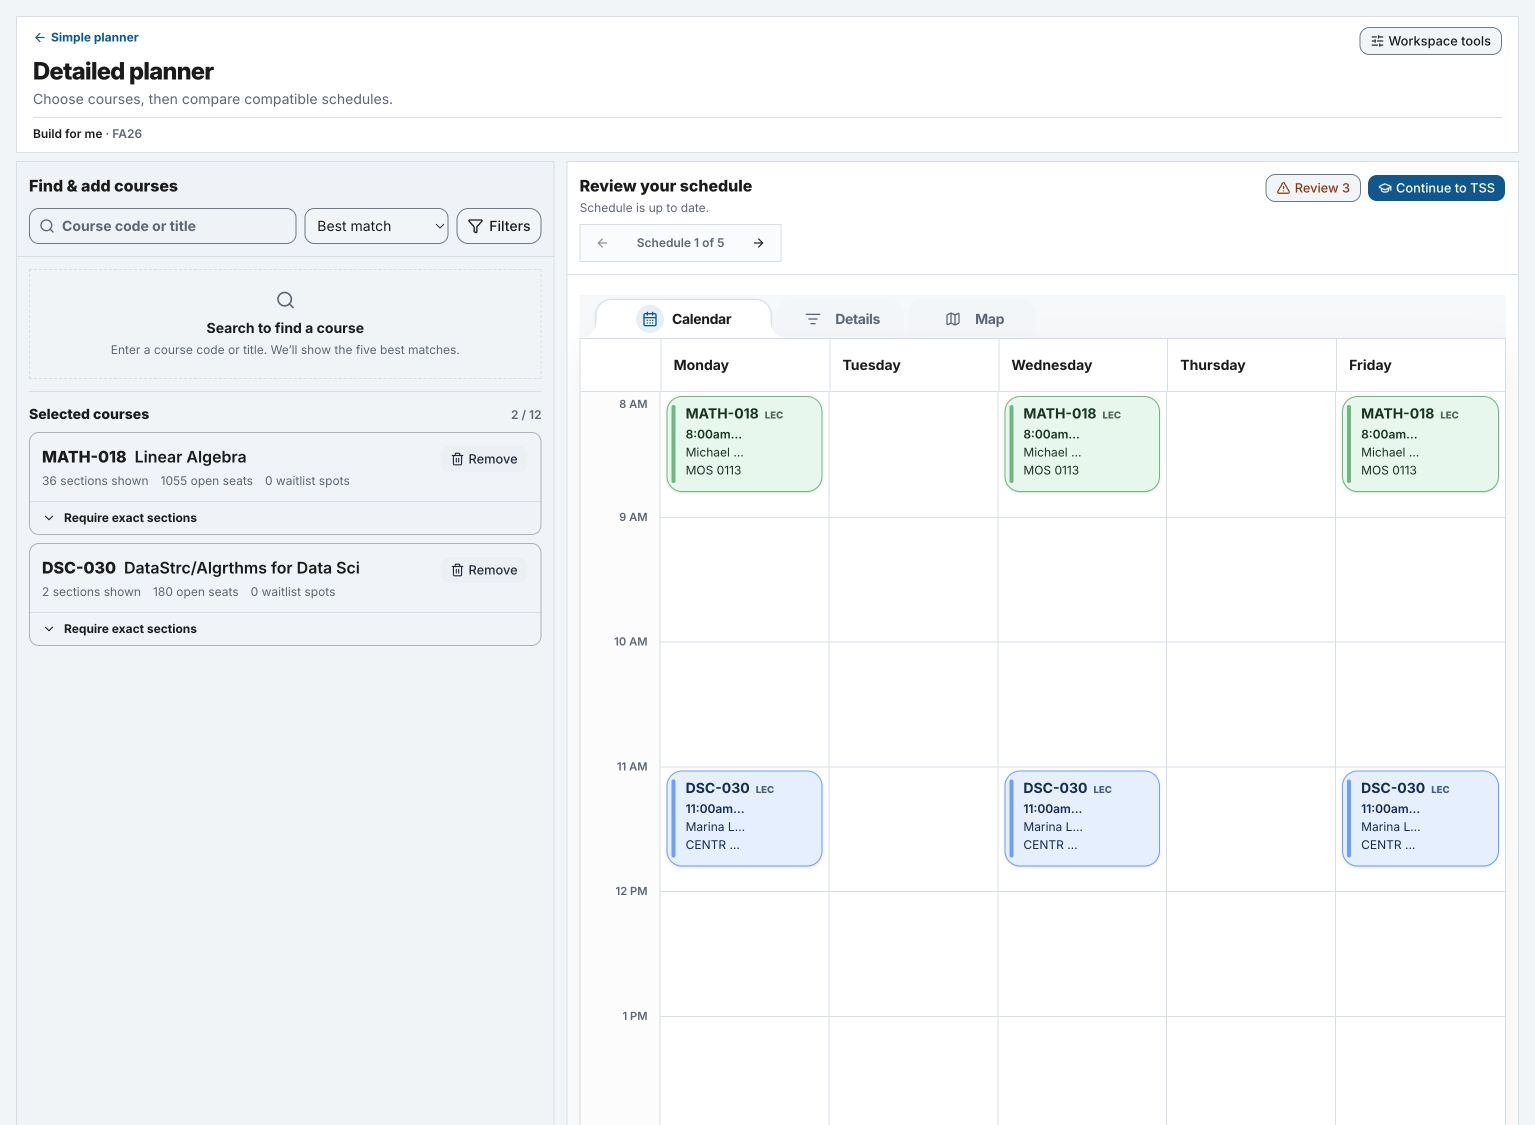
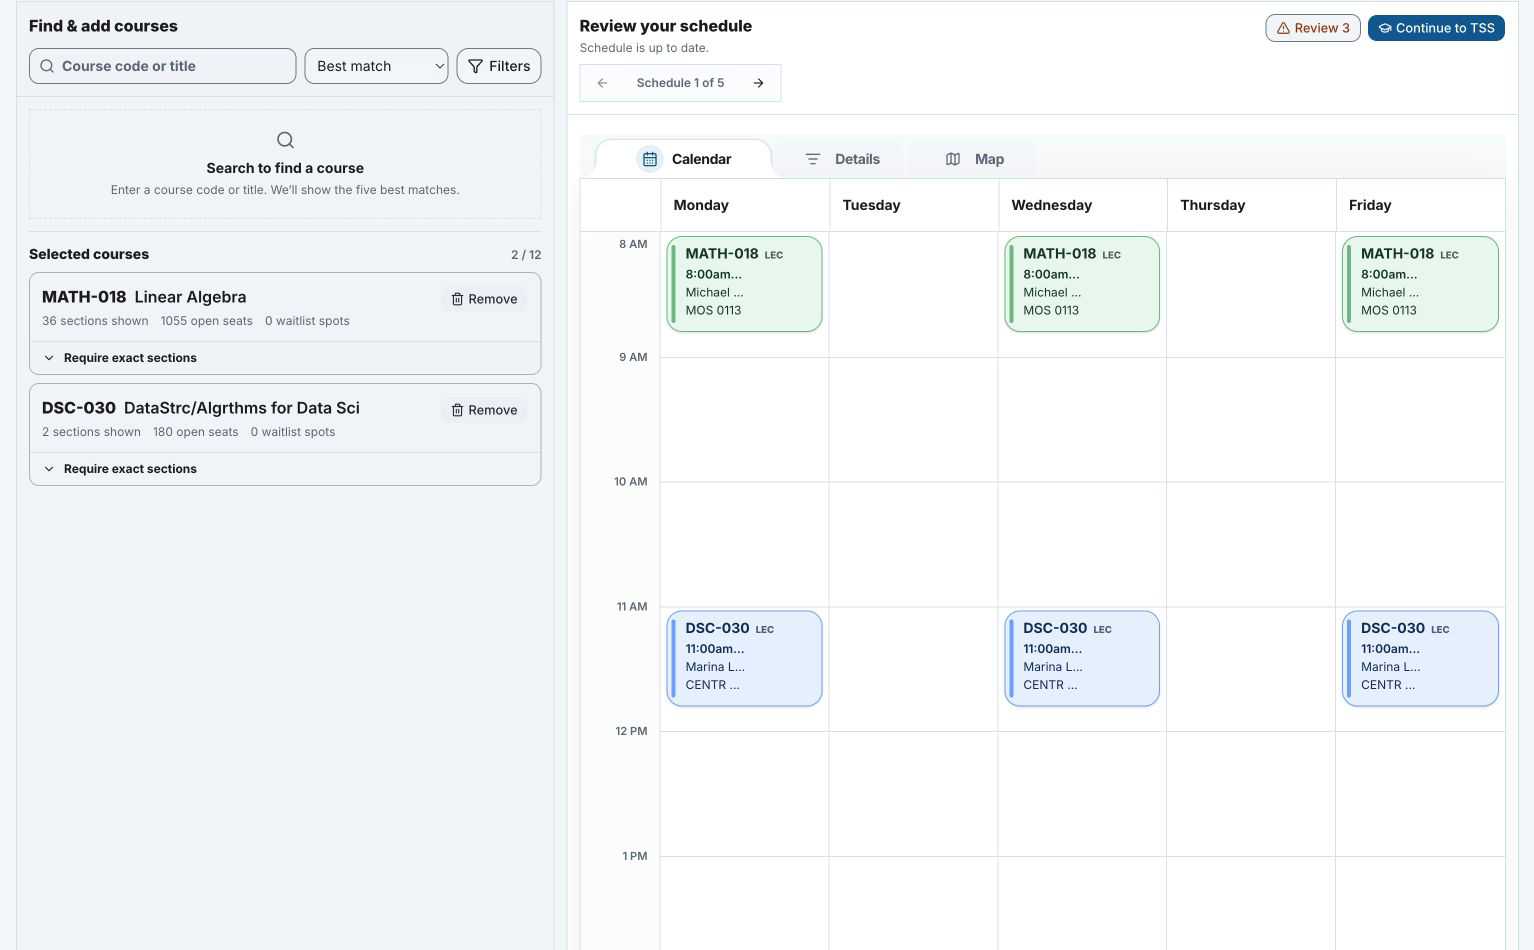
Update planner mode terminology and screenshots

diff --git a/index.html b/index.html
@@ -31,7 +31,7 @@
 
     <link href="https://cdn.ucsd.edu/cms/decorator-5/styles/bootstrap.min.css" rel="stylesheet">
     <link href="https://cdn.ucsd.edu/cms/decorator-5/styles/base.min.css" rel="stylesheet">
-    <link href="assets/css/site.css?v=14" rel="stylesheet">
+    <link href="assets/css/site.css?v=15" rel="stylesheet">
   </head>
 
   <body>
@@ -49,10 +49,10 @@
       </button>
       <ul class="nav navmenu-nav">
         <li class="active"><a href="#overview">Overview</a></li>
-        <li><a href="#build">Choose a method</a></li>
+        <li><a href="#build">Choose a mode</a></li>
         <li><a href="#preferences">Find courses</a></li>
-        <li><a href="#compare">Build for me</a></li>
-        <li><a href="#swap">Plan manually</a></li>
+        <li><a href="#compare">Auto planning</a></li>
+        <li><a href="#swap">Manual planning</a></li>
         <li><a href="#share">Continue to TSS</a></li>
         <li><a href="#release-notes">Release notes</a></li>
         <li><a href="#faq">FAQ</a></li>
@@ -112,10 +112,10 @@
         <div class="navbar-collapse collapse" id="navbar">
           <ul class="nav navbar-nav navbar-nav-list">
             <li class="active"><a href="#overview">Overview</a></li>
-            <li><a href="#build">Choose a method</a></li>
+            <li><a href="#build">Choose a mode</a></li>
             <li><a href="#preferences">Find courses</a></li>
-            <li><a href="#compare">Build for me</a></li>
-            <li><a href="#swap">Plan manually</a></li>
+            <li><a href="#compare">Auto planning</a></li>
+            <li><a href="#swap">Manual planning</a></li>
             <li><a href="#share">Continue to TSS</a></li>
             <li><a href="#release-notes">Release notes</a></li>
             <li><a href="#faq">FAQ</a></li>
@@ -138,8 +138,8 @@
             <div class="col-md-5">
               <h1>Build a schedule your way</h1>
               <p class="lead">
-                Use <strong>Build for me</strong> to compare compatible schedules, or use
-                <strong>Plan manually</strong> to choose exact lectures, discussions, and labs.
+                Use <strong>Auto planning</strong> to compare compatible schedules, or use
+                <strong>Manual planning</strong> to choose exact lectures, discussions, and labs.
               </p>
               <p>
                 Search and filter courses, set your preferences and commitments, review details
@@ -155,12 +155,12 @@
             <div class="col-md-7">
               <figure class="hero-shot hero-shot-detailed">
                 <img
-                  alt="Detailed planner in Build for me mode with selected courses and a weekly schedule"
+                  alt="Detailed planner in Auto planning mode with selected courses and a weekly schedule"
                   class="img-responsive"
                   decoding="async"
-                  height="1125"
+                  height="950"
                   src="assets/img/planner-detailed-auto.png"
-                  width="1535"
+                  width="1534"
                 >
               </figure>
             </div>
@@ -168,10 +168,10 @@
 
           <nav aria-label="Steps in this guide" class="step-nav">
             <ol>
-              <li><a href="#build"><span>1</span>Choose a method</a></li>
+              <li><a href="#build"><span>1</span>Choose a mode</a></li>
               <li><a href="#preferences"><span>2</span>Find courses</a></li>
-              <li><a href="#compare"><span>3</span>Build for me</a></li>
-              <li><a href="#swap"><span>4</span>Plan manually</a></li>
+              <li><a href="#compare"><span>3</span>Auto planning</a></li>
+              <li><a href="#swap"><span>4</span>Manual planning</a></li>
               <li><a href="#share"><span>5</span>Continue to TSS</a></li>
             </ol>
           </nav>
@@ -181,20 +181,20 @@
       <section class="guide-section" id="build">
         <div class="container">
           <div class="row guide-row">
-            <div class="col-md-5">
-              <p class="step-label"><span>1</span> Choose a method</p>
+            <div class="col-md-10 col-md-offset-1">
+              <p class="step-label"><span>1</span> Choose a mode</p>
               <h2>Decide how much control you want</h2>
-              <p>Choose a term, then choose one of two planning methods.</p>
+              <p>Choose a term, then choose one of two planning modes.</p>
               <div class="planning-methods">
                 <div class="info-card">
-                  <h3 class="h4">Build for me</h3>
+                  <h3 class="h4">Auto planning</h3>
                   <p>
                     Add courses and preferences. Class Planner creates compatible schedules for
                     you to compare.
                   </p>
                 </div>
                 <div class="info-card">
-                  <h3 class="h4">Plan manually</h3>
+                  <h3 class="h4">Manual planning</h3>
                   <p>
                     Choose the exact lecture, discussion, and lab sections you want and see them
                     together on the calendar.
@@ -202,25 +202,9 @@
                 </div>
               </div>
               <p>
-                You can change the term or planning method later under
+                You can change the term or planning mode later under
                 <strong>Workspace tools</strong>.
               </p>
-            </div>
-            <div class="col-md-7">
-              <figure class="screenshot">
-                <div class="detailed-workspace-frame">
-                  <img
-                    alt="Set up your planning workspace dialog with Plan manually and Build for me choices"
-                    class="img-responsive"
-                    decoding="async"
-                    height="600"
-                    loading="lazy"
-                    src="assets/img/planner-detailed-setup.png"
-                    width="760"
-                  >
-                </div>
-                <figcaption>Choose a term and a planning method. You can change either later.</figcaption>
-              </figure>
             </div>
           </div>
         </div>
@@ -275,7 +259,7 @@
       <section class="guide-section" id="compare">
         <div class="container">
           <div class="section-heading">
-            <p class="step-label"><span>3</span> Build for me</p>
+            <p class="step-label"><span>3</span> Auto planning</p>
             <h2>Compare schedules built around your choices</h2>
             <p class="lead">
               Class Planner combines the courses you chose with your preferences and shows up to
@@ -312,17 +296,17 @@
 
           <figure class="screenshot screenshot-wide">
             <section
-              aria-label="Build for me workspace screenshot"
-              class="screenshot-scroller detailed-workspace-frame"
+              aria-label="Auto planning workspace screenshot"
+              class="screenshot-scroller"
             >
               <img
-                alt="Build for me workspace with selected courses, schedule navigation, and a weekly calendar"
+                alt="Auto planning workspace with selected courses, schedule navigation, and a weekly calendar"
                 class="img-responsive"
                 decoding="async"
-                height="1125"
+                height="950"
                 loading="lazy"
                 src="assets/img/planner-detailed-auto.png"
-                width="1535"
+                width="1534"
               >
             </section>
             <figcaption>
@@ -382,17 +366,15 @@
             </div>
             <div class="col-md-8">
               <figure class="screenshot">
-                <div class="detailed-workspace-frame">
-                  <img
-                    alt="Map view showing a walking route from Mosaic to Center Hall with an eight-minute estimate"
-                    class="img-responsive"
-                    decoding="async"
-                    height="1125"
-                    loading="lazy"
-                    src="assets/img/planner-detailed-map.png"
-                    width="1535"
-                  >
-                </div>
+                <img
+                  alt="Map view showing a walking route from Mosaic to Center Hall with an eight-minute estimate"
+                  class="img-responsive"
+                  decoding="async"
+                  height="970"
+                  loading="lazy"
+                  src="assets/img/planner-detailed-map.png"
+                  width="954"
+                >
                 <figcaption>Walking times are estimates. Check the route and time between classes.</figcaption>
               </figure>
             </div>
@@ -403,7 +385,7 @@
       <section class="guide-section section-tint" id="swap">
         <div class="container">
           <div class="section-heading">
-            <p class="step-label"><span>4</span> Plan manually</p>
+            <p class="step-label"><span>4</span> Manual planning</p>
             <h2>Choose exact sections yourself</h2>
             <p class="lead">
               Use manual planning when you want to control every lecture, discussion, and lab.
@@ -515,13 +497,13 @@
                   height="838"
                   muted
                   playsinline
-                  poster="assets/img/planner-tss-deep-link-poster.jpg"
+                  poster="assets/img/planner-tss-handoff-poster.jpg"
                   preload="metadata"
                   width="960"
                 >
                   <source src="assets/video/planner-tss-deep-link.mp4" type="video/mp4">
                   Your browser cannot play this video. See the
-                  <a href="assets/img/planner-tss-deep-link-poster.jpg">TSS booking screenshot</a>
+                  <a href="assets/img/planner-tss-handoff-poster.jpg">Saved schedule handoff screenshot</a>
                   instead.
                 </video>
                 <figcaption>
@@ -588,13 +570,30 @@
             <div class="col-sm-12 release-note-latest">
               <article class="release-note">
                 <time datetime="2026-08-02">August 2, 2026</time>
-                <h3>Detailed planner workspace</h3>
+                <h3>What is different in this version</h3>
                 <ul>
-                  <li>Choose <strong>Build for me</strong> or <strong>Plan manually</strong>.</li>
-                  <li>Search, sort, and filter courses in one workspace.</li>
-                  <li>Let the planner choose sections or require exact sections.</li>
-                  <li>Set schedule preferences and personal commitments.</li>
-                  <li>Compare the Calendar, Details, and Map views before continuing to TSS.</li>
+                  <li>
+                    The mode names are shorter and consistent: <strong>Auto planning</strong>
+                    replaces the previous “Build for me” label, and <strong>Manual planning</strong>
+                    replaces “Plan manually.”
+                  </li>
+                  <li>
+                    Course search, filters, selected courses, preferences, and schedule review now
+                    live together in one detailed workspace.
+                  </li>
+                  <li>
+                    <strong>Auto planning</strong> creates compatible schedules to compare;
+                    <strong>Manual planning</strong> lets you select exact lectures, discussions,
+                    and labs.
+                  </li>
+                  <li>
+                    Calendar, Details, and Map views now make it easier to review times, seats,
+                    locations, and walking time before choosing a schedule.
+                  </li>
+                  <li>
+                    The TSS handoff includes a booking checklist and direct course links; booking
+                    still happens in TSS.
+                  </li>
                 </ul>
               </article>
             </div>
@@ -652,11 +651,11 @@
                 </p>
               </article>
               <article class="faq-item">
-                <h3>What is the difference between Build for me and Plan manually?</h3>
+                <h3>What is the difference between Auto and Manual planning?</h3>
                 <p>
-                  <strong>Build for me</strong> creates compatible schedules from your courses
-                  and preferences. <strong>Plan manually</strong> lets you choose every required
-                  section yourself.
+                  <strong>Auto planning</strong> creates compatible schedules from your courses
+                  and preferences. <strong>Manual planning</strong> lets you choose every
+                  required section yourself.
                 </p>
               </article>
               <article class="faq-item">
@@ -774,10 +773,10 @@
           },
           {
             "@type": "Question",
-            "name": "What is the difference between Build for me and Plan manually?",
+            "name": "What is the difference between Auto and Manual planning?",
             "acceptedAnswer": {
               "@type": "Answer",
-              "text": "Build for me creates compatible schedules from your courses and preferences. Plan manually lets you choose every required section yourself."
+              "text": "Auto planning creates compatible schedules from your courses and preferences. Manual planning lets you choose every required section yourself."
             }
           },
           {

diff --git a/assets/css/site.css b/assets/css/site.css
@@ -483,6 +483,7 @@ button:focus,
 .planning-methods {
   display: grid;
   gap: 1rem;
+  grid-template-columns: repeat(2, minmax(0, 1fr));
   margin: 1.5rem 0;
 }
 
@@ -679,6 +680,10 @@ code {
 }
 
 @media (max-width: 767px) {
+  .planning-methods {
+    grid-template-columns: 1fr;
+  }
+
   .navbar .container > .navbar-header {
     margin-left: 0;
     margin-right: 0;

diff --git a/README.md b/README.md
@@ -37,19 +37,18 @@ page also works when opened from the local filesystem.
 
 The detailed-planner screenshots were captured from the development workspace
 on August 2, 2026. Older saved-schedule images were captured from the public
-Class Planner in July 2026. The images contain no authenticated or
-student-specific information.
+Class Planner in July 2026. All published captures use the light appearance and
+contain no authenticated or student-specific information.
 
 | File | Dimensions | Workflow state |
 | --- | ---: | --- |
-| `planner-detailed-setup.png` | 760 × 600 | Term and Build for me or Plan manually choices |
 | `planner-detailed-filters.png` | 1535 × 1125 | Course search, sorting, and filters |
-| `planner-detailed-auto.png` | 1535 × 1125 | Build for me workspace and generated schedule |
+| `planner-detailed-auto.png` | 1534 × 950 | Auto planning workspace and generated schedule |
 | `planner-detailed-preferences.png` | 1535 × 1125 | Preferences and a weekly personal commitment |
-| `planner-detailed-map.png` | 1535 × 1125 | Walking route and time between classes |
+| `planner-detailed-map.png` | 954 × 970 | Walking route and time between classes |
 | `planner-detailed-manual.png` | 1535 × 1125 | Exact lecture and discussion choices in manual mode |
 | `planner-details.png` | 966 × 660 | Meeting, seat, waitlist, section ID, exam, and freshness details |
-| `planner-tss-deep-link-poster.jpg` | 960 × 838 | Poster for the TSS deep-link demonstration |
+| `planner-tss-handoff-poster.jpg` | 960 × 838 | Saved schedule with the Finish & book handoff |
 | `planner-share-export.png` | 1142 × 710 | Saved schedule with calendar and TSS controls |
 
 The visible terms, courses, seats, waitlists, and timestamps are examples rather
